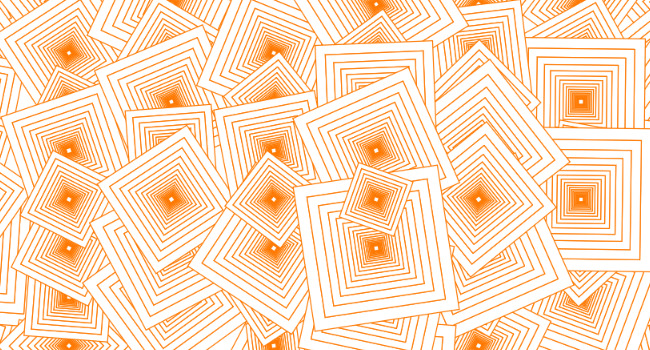
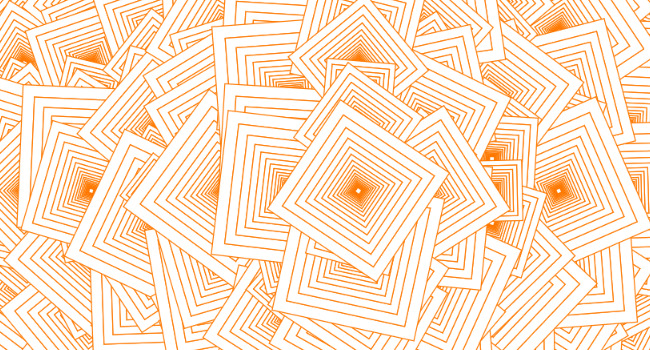
modified the flower 00_03+ added thumbnail

diff --git a/_02-Agents/00_03/sketch.js b/_02-Agents/00_03/sketch.js
@@ -14,9 +14,12 @@ function setup() {
   pixelDensity(density);
   // Init var
   // The var are initialised in gui.js
+  
 }
 
 function draw() {
+  randomSeed(0);
+  increaseLength = 0;
   stroke(options.strokeColor);
  // background(255);
   background(255);

diff --git a/_02-Agents/00_03/gui.js b/_02-Agents/00_03/gui.js
@@ -1,6 +1,6 @@
 var options = {
   actRandomSeed: 0,
-  tileCount: 10,
+  tileCount: 23,
   bgAlpha: 255, 
   circleLineColor: 255, 
   strokeColor: [255, 120, 0], //RGB   
